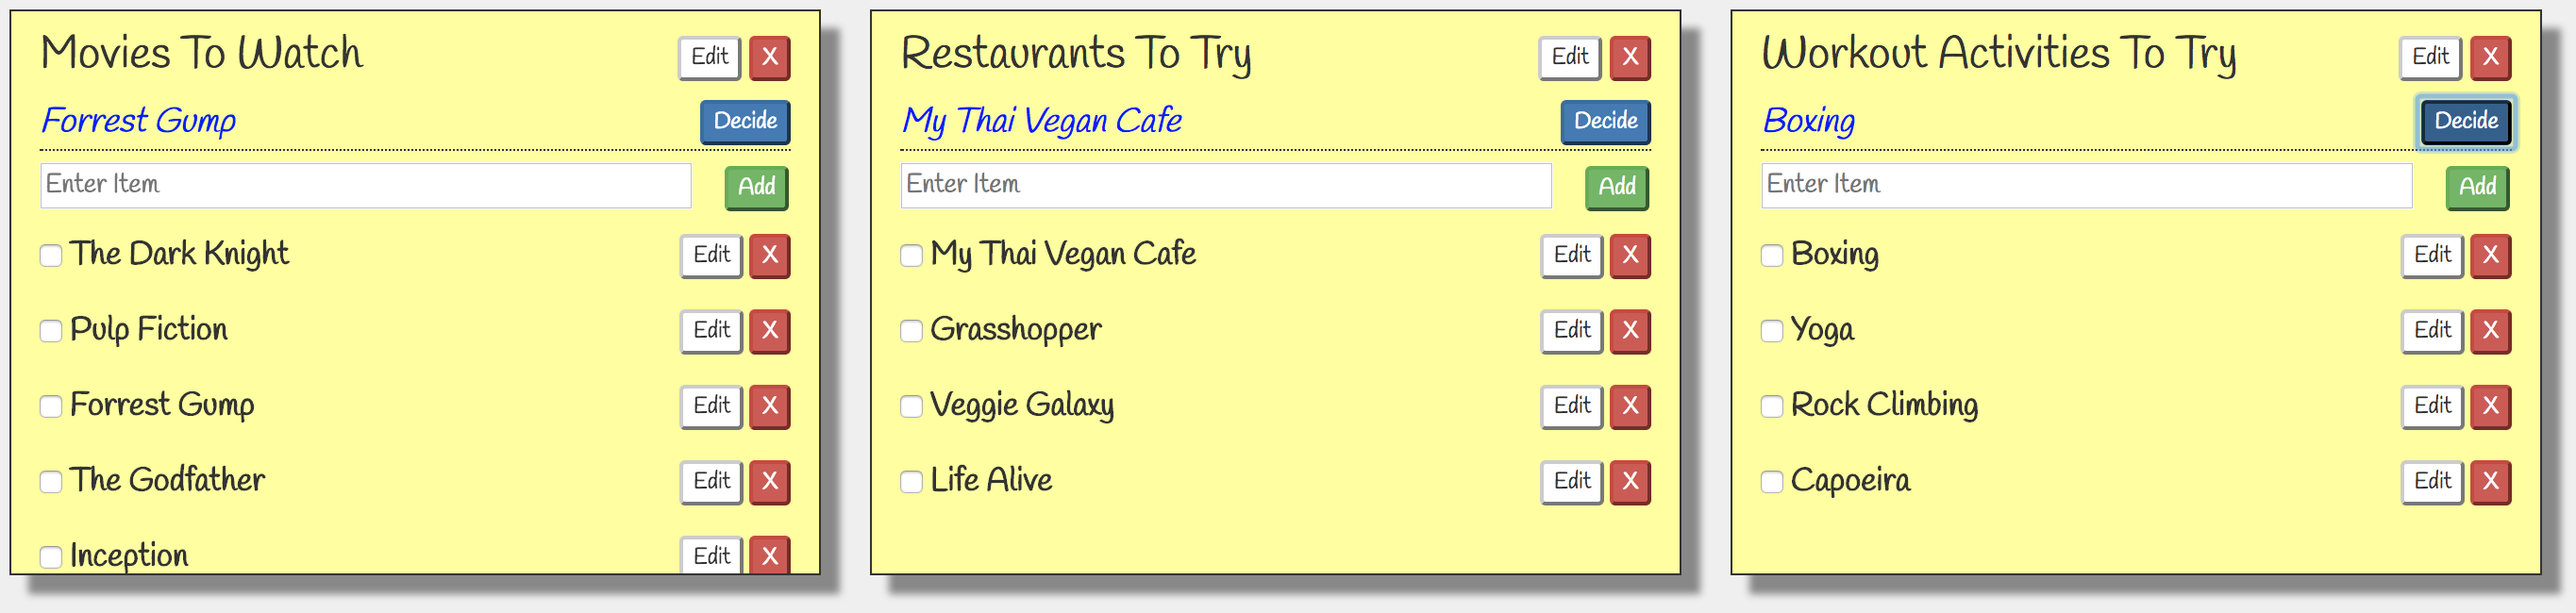
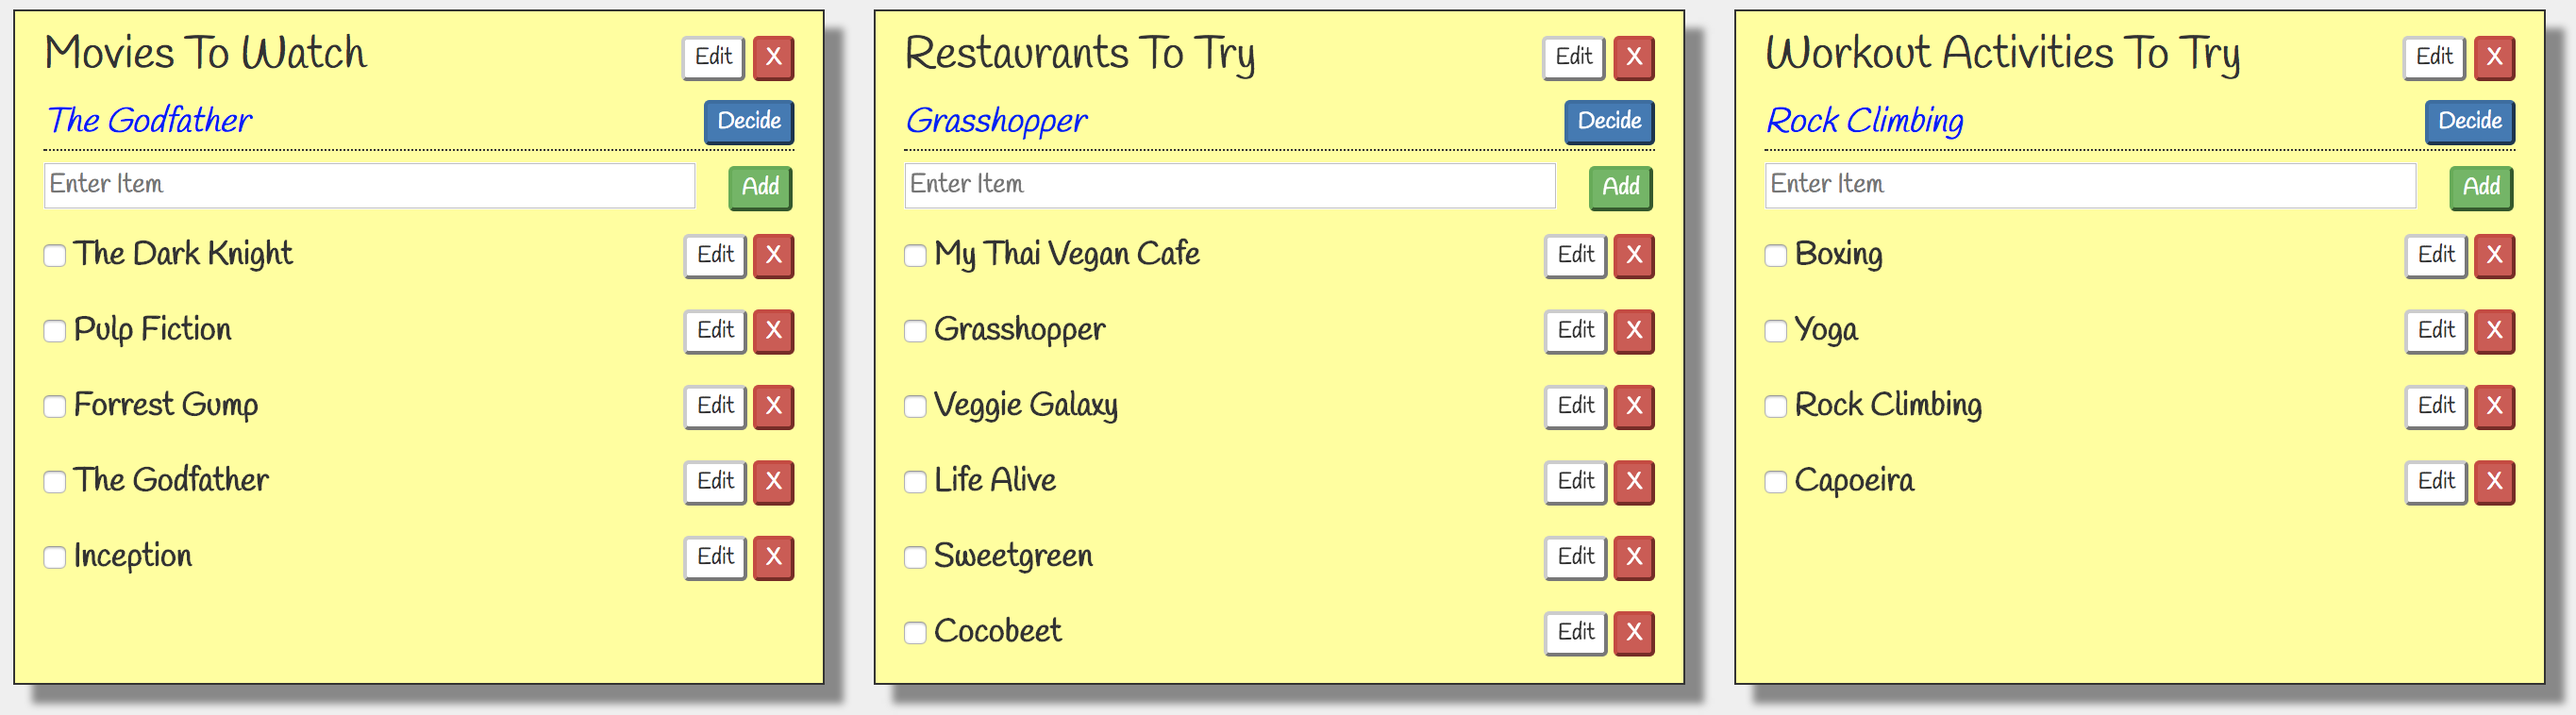
Update sample-lists image   - update image   - update background url

Changed region(s): [[0.0, 0.0, 0.9963, 1.0], [0.0, 0.6154, 0.1245, 0.7077], [0.0, 0.7385, 0.1245, 0.8308]]

diff --git a/assets/styles/index.scss b/assets/styles/index.scss
@@ -27,7 +27,7 @@ body {
   background-color: #ffff92;
   border-width: 1px;
   margin: 13px;
-  height: 300px;
+  height: 358px;
   width: 31%;
   overflow-y:scroll;
   box-shadow: 10px 10px 5px #888888;
@@ -143,7 +143,7 @@ p {
 }
 
 .samples{
-  content: url('https://i.imgur.com/BVXTQ0L.png');
+  content: url('https://i.imgur.com/AhtgQR0.png');
   width: 100%;
 }
 
